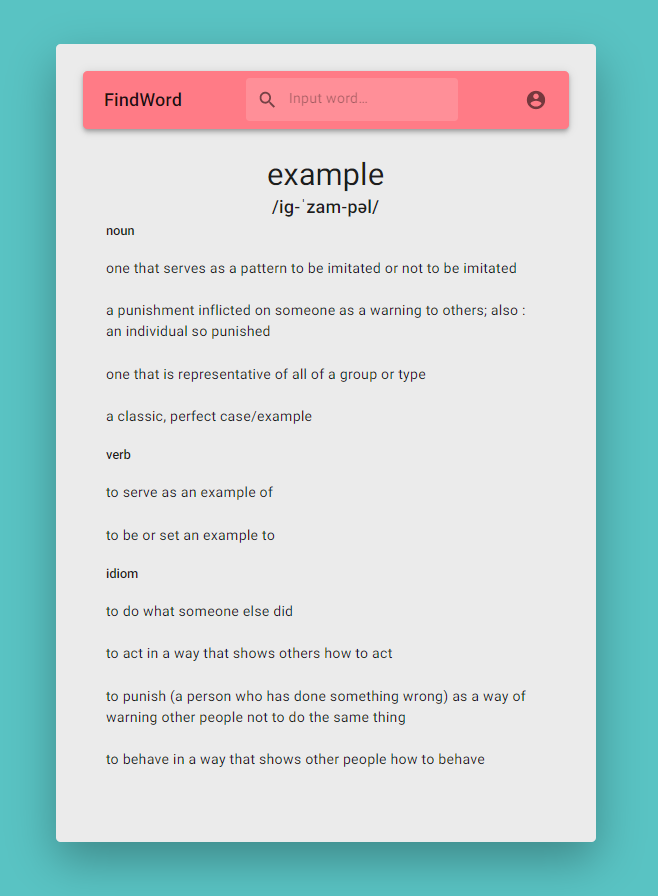
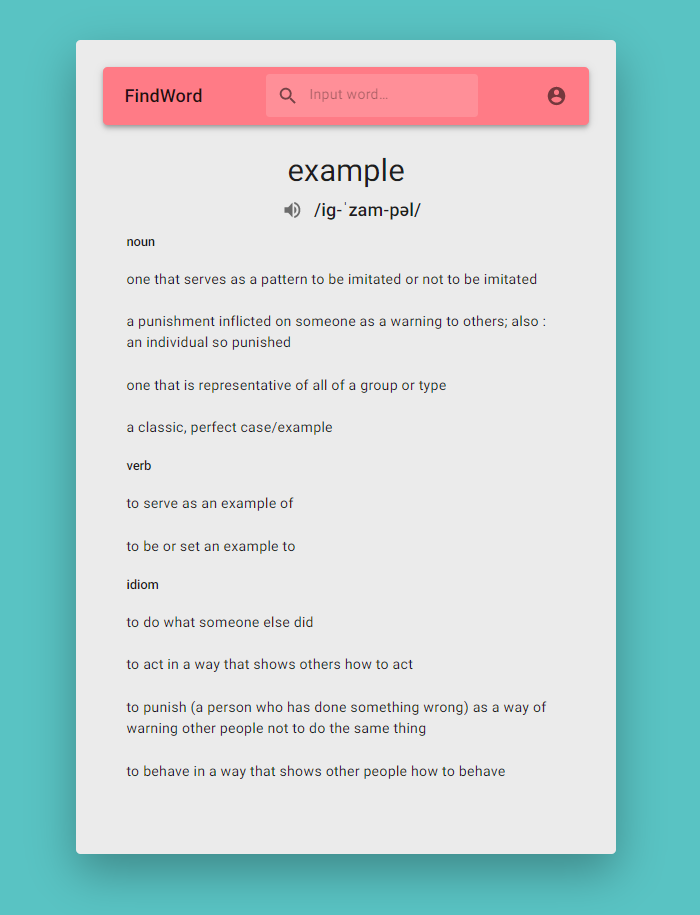
add audio

diff --git a/src/components/Word.tsx b/src/components/Word.tsx
@@ -1,6 +1,7 @@
 import axois from 'axios';
 import React, { useState, useEffect } from 'react';
-import {Typography, makeStyles, Box} from '@material-ui/core';
+import {Typography, makeStyles, Box, IconButton} from '@material-ui/core';
+import VolumeUpIcon from '@material-ui/icons/VolumeUp'
 import DefinitionList from './DefinitionList';
 
 const useStyles = makeStyles((theme) => ({
@@ -34,9 +35,8 @@ export default function Word ({word}:AppProps)  {
     const [values, setValues] = useState({
         types: Array<any> ([]),
         transcription: '',
-        audio: ''
+        audioUrl: ''
     })
-  
     const KEY = 'ce4a9515-e40e-4234-8605-58c5475fd9dc'
     const URL = 'https://www.dictionaryapi.com/api/v3/references/collegiate/json'
     
@@ -45,27 +45,9 @@ export default function Word ({word}:AppProps)  {
         .then( (response) => {
             console.log(response)
             let data = response.data
-            data = data.filter((item: { shortdef: string; }) => item.shortdef !='')
-            if (data.length===0) setNotFound(true)
-            if (typeof data[0]==='string') setNotFound(true)
-            if (typeof data[0]==='object') setNotFound(false)
-
-            let wordTypes: Array<any> = []
-
-            for (let elem of data) {
-                if (!wordTypes.includes(elem.fl)) wordTypes.push(elem.fl)
-            }
-
-            console.log(data)
-            console.log(wordTypes)
-
             setIsLoaded (true)
-            setWordData(data)
-            setValues({...values,   
-                        types: wordTypes,
-                        transcription:data[0].hwi.prs[0].mw, 
-                        audio:data[0].hwi.prs[0].sound.audio})
-            })
+            setData(data)
+        })
 
         .catch((error) => {
             console.log('error', error)
@@ -73,7 +55,46 @@ export default function Word ({word}:AppProps)  {
         })
     }, [word])
 
+
+    const setData = (data:Array<any>) => {
+        data = data.filter((item: { shortdef: string; }) => item.shortdef !='')
+        if (data.length===0)           setNotFound(true);
+        if (typeof data[0]==='string') setNotFound(true);
+        if (typeof data[0]==='object') setNotFound(false);
+        setWordData(data);
+        
+        let wordTypes: Array<any> = []
+            for (let elem of data) {
+                if (!wordTypes.includes(elem.fl)) wordTypes.push(elem.fl)
+            }
+
+        let audio=data[0].hwi.prs[0].sound.audio;
+        let audioUrl=makeSoundUrl(audio);
+        setValues({...values,   
+                    types: wordTypes,
+                    transcription:data[0].hwi.prs[0].mw, 
+                    audioUrl:audioUrl,
+        })
+    }
     
+    const makeSoundUrl = (audio:string) => {
+        const baseUrl='https://media.merriam-webster.com/audio/prons/en/us';
+        const format='mp3'; //mp3        wav        ogg
+        let subdirectory;
+        if (audio.slice(0,3)==='bix') subdirectory='bix';   //if audio begins with "bix", the subdirectory should be "bix",
+        else if (audio.slice(0,2)==='gg') subdirectory='gg'; //if audio begins with "gg", the subdirectory should be "gg",
+        else if (typeof audio.slice(0,1)==='number') subdirectory='number'; //if audio begins with a number or punctuation (eg, "_"), the subdirectory should be "number",
+        else if (audio.slice(0,1)==='_') subdirectory='number'; //if audio begins with a number or punctuation (eg, "_"), the subdirectory should be "number",
+        else subdirectory=audio.slice(0,1); // otherwise, the subdirectory is equal to the first letter of audio.
+        let url=`${baseUrl}/${format}/${subdirectory}/${audio}.${format}`;
+        return url;
+    }
+
+    const playSound = () => {
+        const audio = new Audio(values.audioUrl);
+        audio.play()
+    }
+
     return ( 
         <Box className={classes.word}>
             {
@@ -92,9 +113,15 @@ export default function Word ({word}:AppProps)  {
                     <Typography variant='h4'> {word} </Typography>
                     {
                         values.transcription && (
-                            <Typography variant='h6'> 
-                                /{values.transcription}/ 
-                            </Typography>
+                            <Box display='flex' justifyContent='center' alignItems='center'>
+                                <IconButton onClick={playSound}>
+                                    <VolumeUpIcon/>
+                                </IconButton>
+                                <Typography variant='h6'> 
+                                    /{values.transcription}/ 
+                                </Typography>
+                            </Box>
+                            
                         )
                     }
                    
